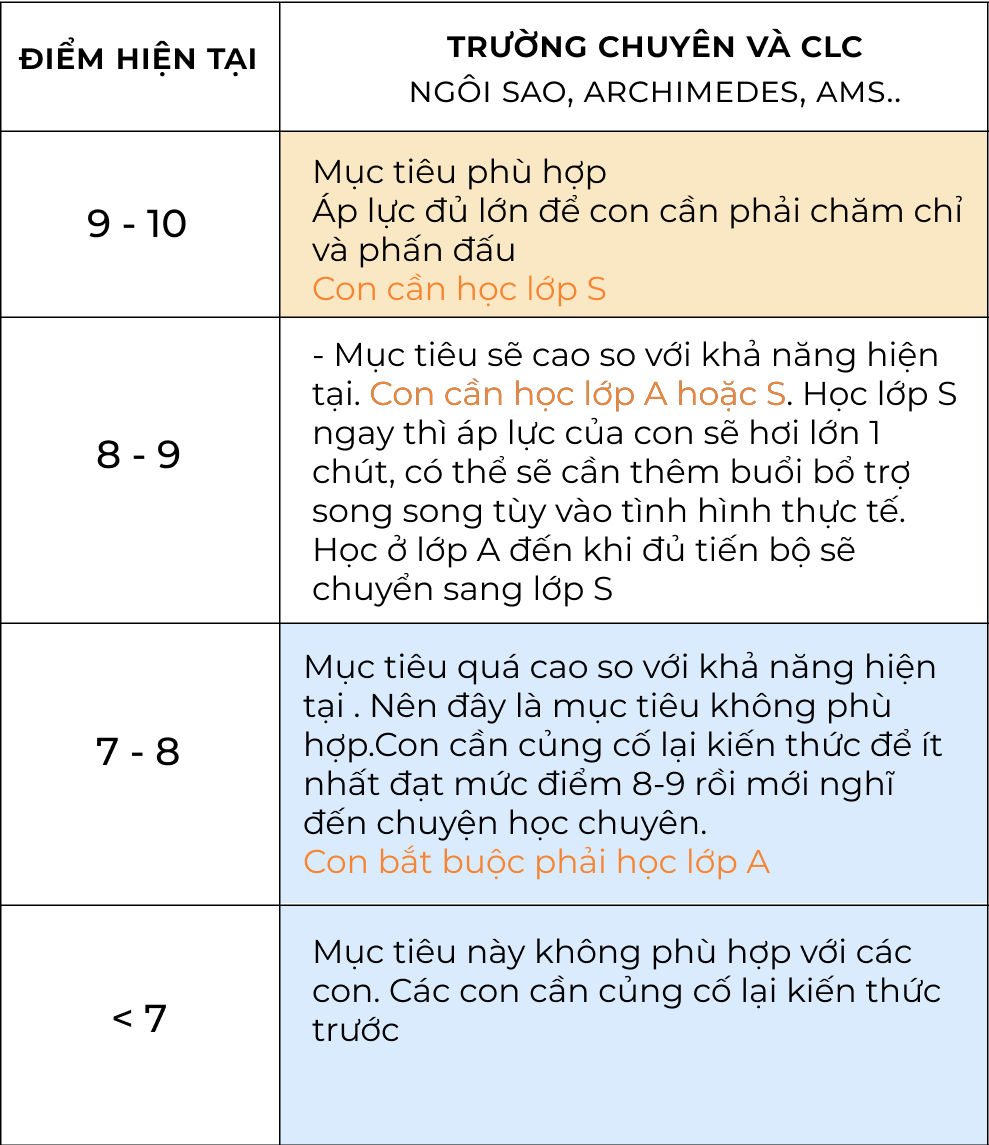
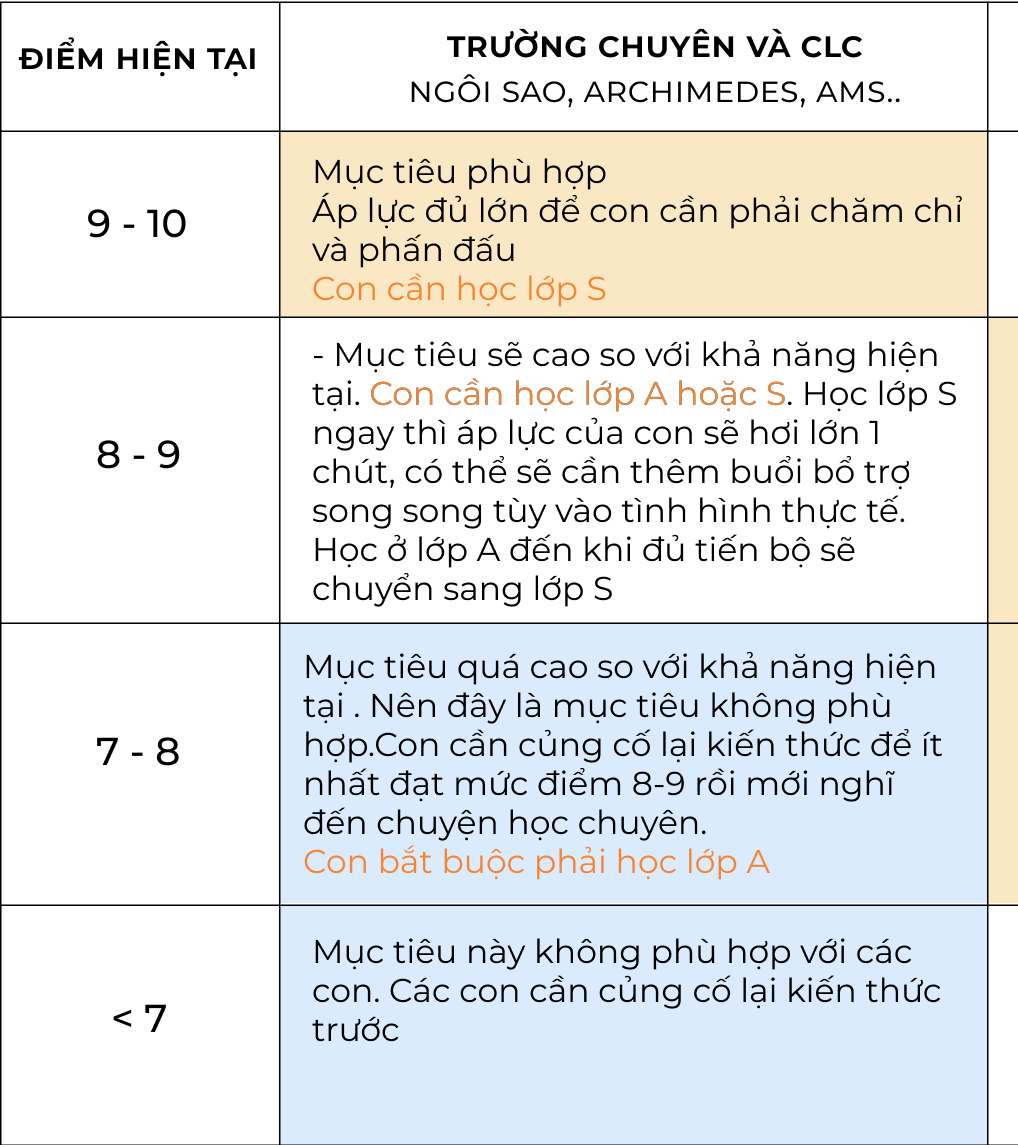
feature/up_web

diff --git a/public/toanhoc.html b/public/toanhoc.html
@@ -120,7 +120,7 @@
       style="
         text-align: center;
         width: 100%;
-        aspect-ratio: 960/170;
+        aspect-ratio: 960/200;
         background-color: #f9f5ea;
       "
     >
@@ -134,7 +134,7 @@
         width: 100%;
         aspect-ratio: 960/1160;
         background-color: #272660;
-        padding-top: 7%;
+        padding-top: 10%;
       "
     >
       <div class="submitForm">
@@ -185,14 +185,14 @@
           <div
             id="tientrinh_left"
             class="imgContent"
-            style="background-color: #f9f5ea; aspect-ratio: 960/1119"
+            style="background-color: #f9f5ea; aspect-ratio: 960/1119; "
           ></div>
         </li>
         <li>
           <div
             id="tientrinh_right"
             class="imgContent"
-            style="background-color: #f9f5ea; aspect-ratio: 960/1119"
+            style="background-color: #f9f5ea; aspect-ratio: 960/1119; margin-left: -3.8%; width: 100%;"
           ></div>
         </li>
       </ul>

diff --git a/public/styles/mathpage-styles.css b/public/styles/mathpage-styles.css
@@ -318,7 +318,7 @@ color: #545354;
     content: url("../media/tientrinh_left.png");
   }
   #tientrinh_right {
-    content: url("../media/tientring_right.png");
+    content: url("../media/tientrinh_right.png");
   }
 
   #tientrinh3 {
@@ -359,7 +359,7 @@ color: #545354;
 
   #submitForm1 {
     width: 100%;
-    margin-top: -25%;
+    margin-top: -10%;
   }
  
   #quytrinh {
@@ -374,7 +374,7 @@ color: #545354;
     content: url("../media/tientrinh_left.png");
   }
   #tientrinh_right {
-    content: url("../media/tientring_right.png");
+    content: url("../media/tientrinh_right.png");
   }
 
   #tientrinh3 {

diff --git a/public/styles/devStyles.css b/public/styles/devStyles.css
@@ -260,7 +260,7 @@ span:hover {
     margin: auto;
   }
 #img_voucher {
-    margin-bottom: -12.2%;
+    margin-bottom: -17.5%;
   }
   .txttitle {
     width: 85%;
